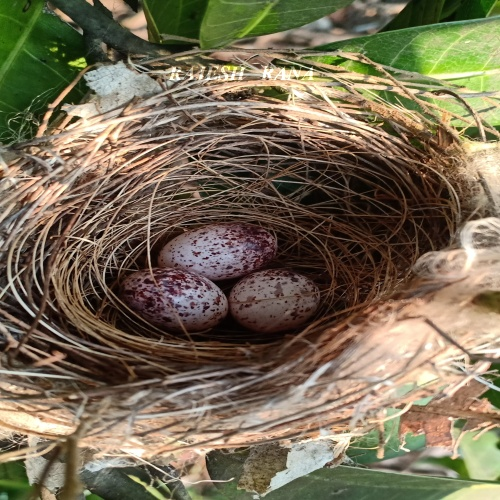
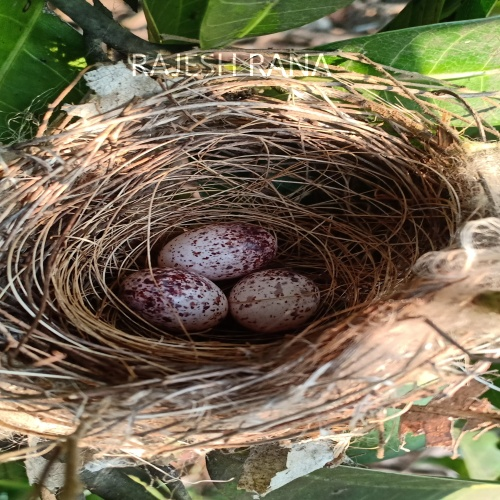
Updated

Changed region(s): [[0.24, 0.09, 0.66, 0.18]]

diff --git a/1. Beginner/9. Watermarking Images with OpenCV/Method 2/image_watermarking.py b/1. Beginner/9. Watermarking Images with OpenCV/Method 2/image_watermarking.py
@@ -3,7 +3,7 @@ import numpy as np
 from watermarking import watermarking
 
 image = cv2.imread("bird nest.jpg")
-watermark = cv2.imread("watermark3.png", cv2.IMREAD_UNCHANGED)
+watermark = cv2.imread("watermark1.png", cv2.IMREAD_UNCHANGED)
 # Showing the result
 final = watermarking(image, watermark)
 cv2.imshow("Watermarked image",final)
